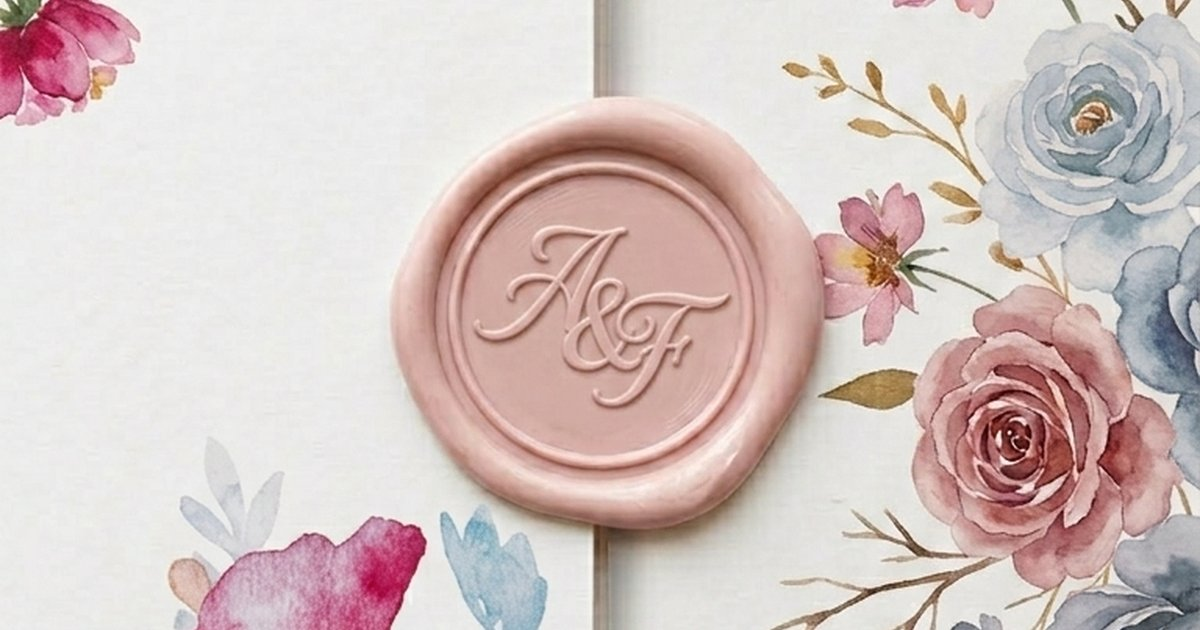
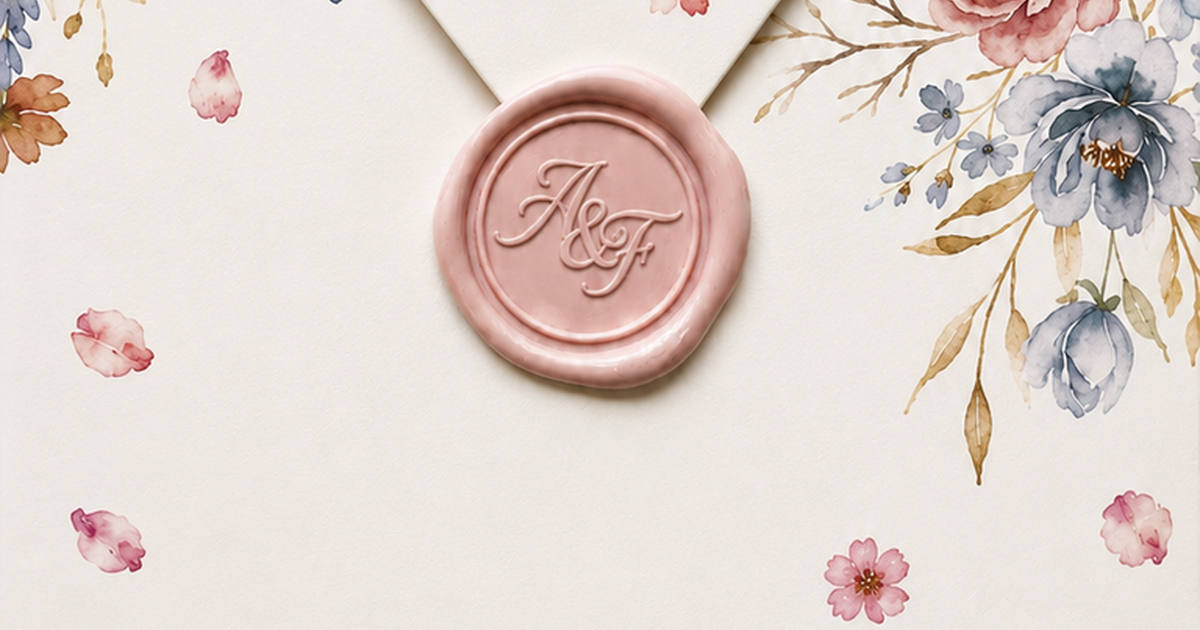
Nuevo sobre con formato de solapa superior (diseño A&F) + video recortado
- sobre.png: nuevo diseño con solapa triangular superior, arreglos florales acuarela y sello A&F
- sobre-abriendo.mp4: video de apertura recortado a 6.85s (antes del fade a blanco final)
- sobre-og.png: OG regenerada desde el nuevo sobre (sello A&F centrado); cache-bust v4

diff --git a/src/app/layout.tsx b/src/app/layout.tsx
@@ -42,7 +42,7 @@ export const metadata: Metadata = {
     type: "website",
     images: [
       {
-        url: "https://boda-ana-y-francisco.vercel.app/sobre-og.png?v=3",
+        url: "https://boda-ana-y-francisco.vercel.app/sobre-og.png?v=4",
         width: 1200,
         height: 630,
         alt: "Invitación de boda Ana Laura & Francisco — 10 Octubre 2026",
@@ -53,7 +53,7 @@ export const metadata: Metadata = {
     card: "summary_large_image",
     title: "Ana Laura & Francisco — 10 Octubre 2026",
     description: "Nos casamos el 10 de octubre de 2026 en San Juan del Río, Querétaro.",
-    images: ["https://boda-ana-y-francisco.vercel.app/sobre-og.png?v=3"],
+    images: ["https://boda-ana-y-francisco.vercel.app/sobre-og.png?v=4"],
   },
 };
 